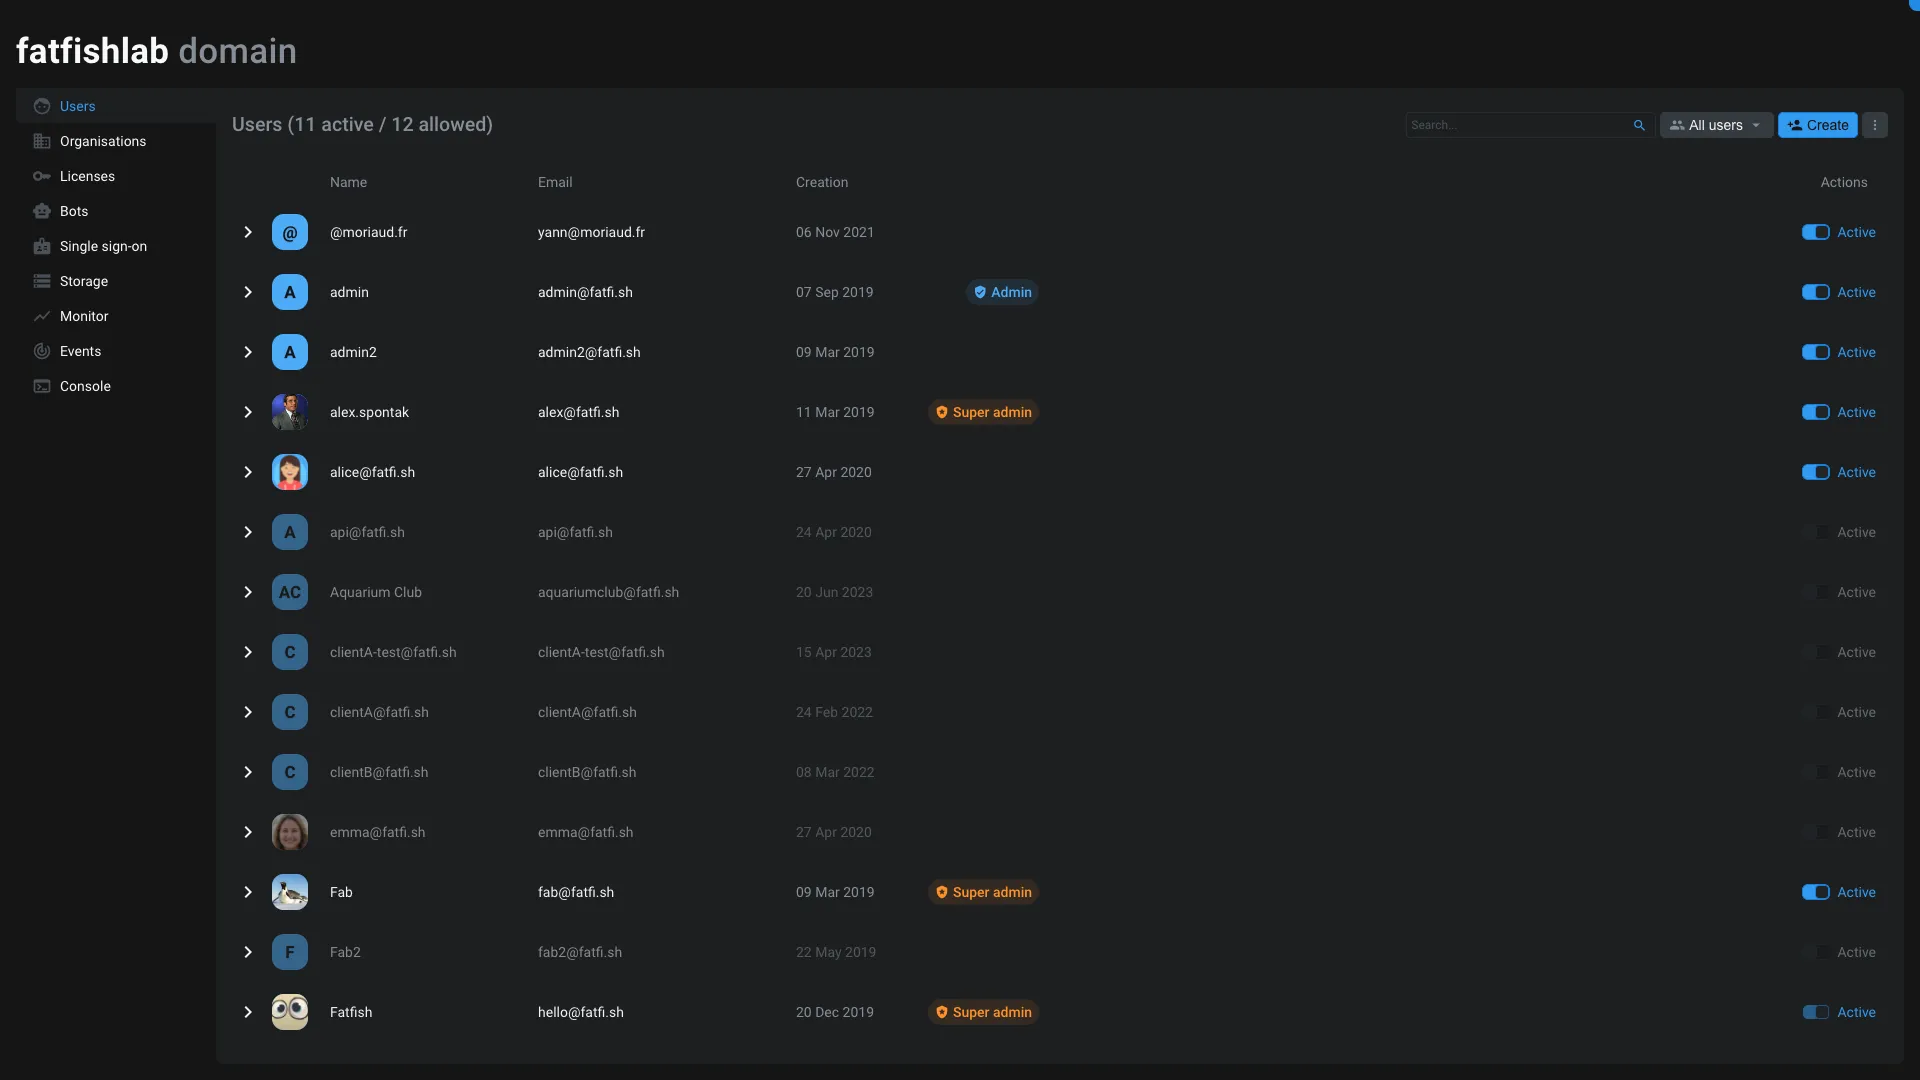
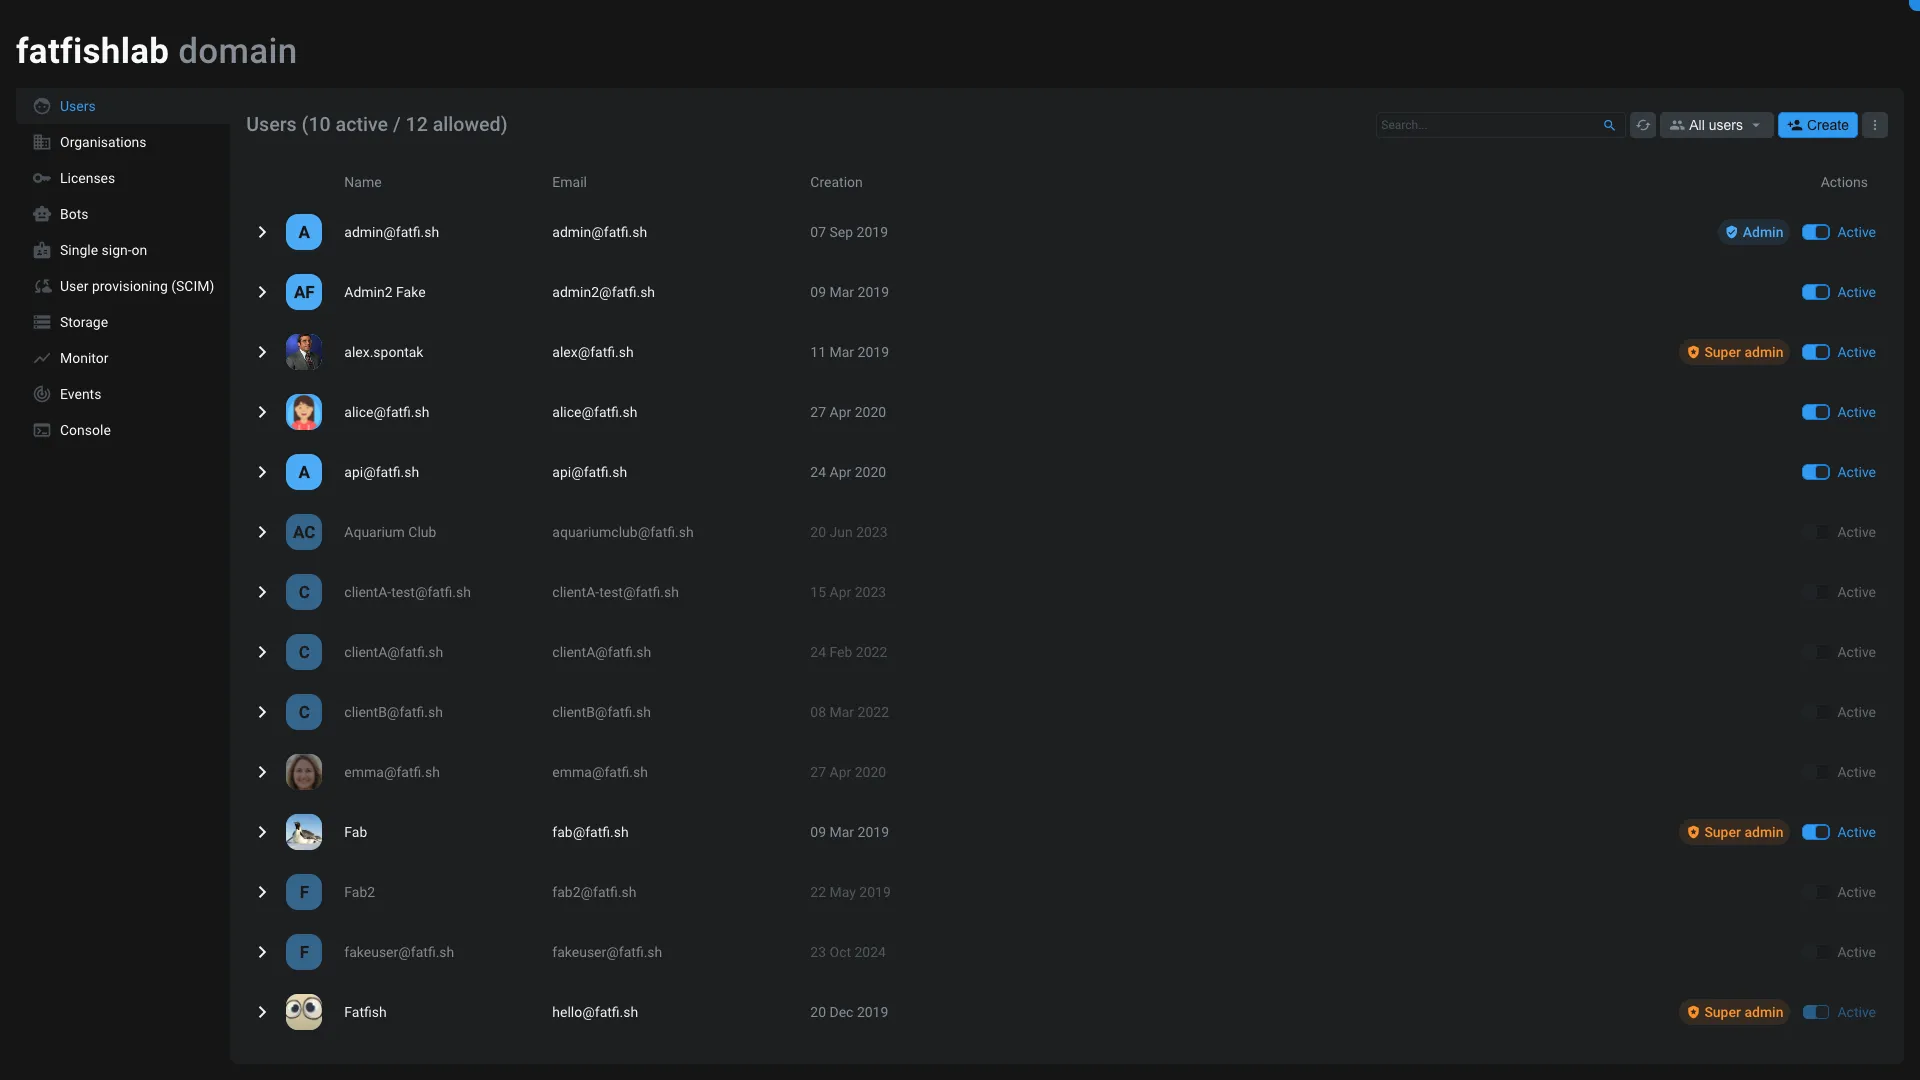
feat(domain): Add SCIM documentation

diff --git a/src/web/applications/domain.md b/src/web/applications/domain.md
@@ -60,9 +60,21 @@ Here is a table explaining the differences between admin and super-admin:
 | Use the [console](#console) | <span style="color: var(--red-50);">No</span> | <span style="color: var(--green-50);">Yes</span> |
 | Can requeue [events](#events) | <span style="color: var(--red-50);">No</span> | <span style="color: var(--green-50);">Yes</span> |
 | Manage [SSO](#SSO) | <span style="color: var(--red-50);">No</span> | <span style="color: var(--green-50);">Yes</span> |
+| Manage [SCIM](#SCIM) | <span style="color: var(--red-50);">No</span> | <span style="color: var(--green-50);">Yes</span> |
 
 > [!error] Use with caution
 > If you don't want an admin or super-admin to access specific project, you can remove the `Domain admins` usergroup from the participant.
+
+### Special permissions for events & SCIM
+
+To avoid giving admin or super-admin permissions to users or bots that require only being able to use [Events](#events) or [SCIM](#SCIM) API, we introduced two specific permissions toggle:
+
+- `Events`: Allow the user to interact with the events API and requeue events.
+- `SCIM`: Allow the user to interact with the SCIM API.
+
+> [!warning]
+> The `SCIM` permission is not used to "setup" SCIM credentials. This permission only allows the user to authorize SCIM API requests.
+
 
 ## Organisations
 
@@ -180,6 +192,10 @@ You will need to obtain a Bearer Token from Aquarium to authenticate your identi
 2. Press the `Generate token` button.
 3. Copy the token and paste it in your identity provider.
 4. Copy the SCIM endpoint and paste it in your identity provider.
+
+> [!info]
+> Aquarium uses the email of a user to uniquely identify them in the SCIM API. So if your identity provider lets you choose the `userName` used in the SCIM API, you should use the `email` or its equivalent.
+> If you don't use the email as SCIM `userName`, you will have errors when trying to sync an existing user.
 
 [details How to configure SCIM with Okta ?
 
